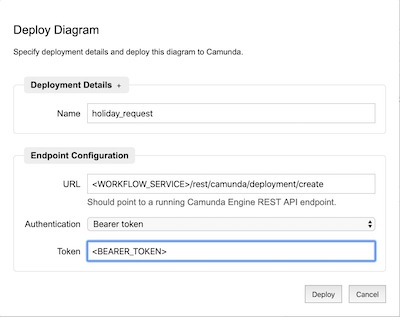
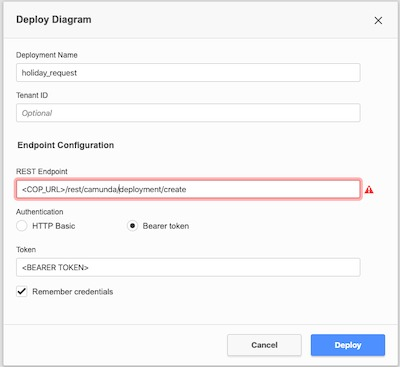
resolves #31

Changed region(s): [[0.0, 0.0, 1.0, 1.0], [0.84, 0.5962, 0.93, 0.6246]]

diff --git a/guides/workflow/simple-form-bpmn.md b/guides/workflow/simple-form-bpmn.md
@@ -3,7 +3,7 @@ category: Workflow
 expires: 2020-12-31
 order: 4
 ---
-# Building a form and BPMN, and deploying to COP
+# Building a form and BPMN, and deploying to COP and eForms
 
 ## Introduction
 
@@ -154,7 +154,13 @@ Now we want to present a form to the 'approver'. Do this by clicking on the 'For
 
 Now finish the BPMN by attaching an 'End Event'. Follow the same process. First give it an 'Id'. Give it a name to represent that the process is complete e.g. 'Request approved'. The BPMN is now complete. Your next task is to deploy it to COP.
 
-### How to deploy the BPMN to COP
+### How to deploy the BPMN to COP and eForms
+
+The Camunda workflow engine underpins both COP and eForms, but the COP engine is highly customised to suit Border Force requirements, whereas eForms is more general. The deployment process for both is the same, the only difference is the URL.
+
+The following instructions apply both to deployment to COP and eForms with two exceptions: only certain people are allowed to deploy to eForms, and a different URL will be provided when it comes to eForms.
+
+Only certain roles e.g. tech lead, have clearance to deploy to eForms. This encourages developers to fully test their BPMN before deploying it, rather than deploying it and testing it afterwards.
 
 Save the file in the appropriate repository. (Please consult with your developer/tech arch. If you are testing this locally you can save it in your local directory.) Then click on the arrow button at the end of the toolbar 'Deploy Current Diagram'. Give the diagram a name e.g. 'Holiday Request', then the url of the workflow engine that's running (See Fig. 10).
 
@@ -162,30 +168,73 @@ Save the file in the appropriate repository. (Please consult with your developer
 
 **Figure 10. Deploy to COP**
 
-<br/>
+REST endpoint for COP:
+```
+<COP_URL>/rest/camunda/deployment/create
+```
+REST endpoint for eForms:
+```
+<eForms_URL>/camunda/engine-rest/deployment/create
+```
 
-Once this is deployed to COP you should see this:
+**Consult your tech lead for the appropriate COP_URL or eForms_URL**
+
+Next you need a 'bearer token'. A 'bearer token' is a form of access token, that encodes information about the individual deploying the BPMN.
+The 'bearer token' only lasts for a limited amount of time so you need to generate one every time you deploy your BPMN to COP and eForms.
+
+You can download a tool called [postman](https://www.postman.com). Documentation on how to use postman can be found [here](https://learning.postman.com). This [link](https://learning.postman.com/docs/sending-requests/authorization/#oauth-20tells) shows you how to get a 'bearer token'. In the form 'Get New Access Token' you need to fill in 'Token Name','Callback URL', 'Auth URL', 'Access Token URL', and a 'Client ID'.
+
+* 'Token Name' - this can be anything, as it only lasts for a short period of time.
+
+* 'Callback URL' - this can be your local machine, so fill in 'http://localhost:8080'
+
+* 'Auth URL' - your DevOps will provide you with the 'Auth URL', you then need to input it into the 'Auth URL' box and add '/auth'.
+
+* 'Access Token URL' - will be available from your Tech Lead or DevOps engineer. Input it into the 'Access Token URL' box and add '/token'.
+
+* 'Client ID' - will either be 'eforms' or 'www'(for COP).
+
+![get new access token]({{ '/images/get-new-access-token.jpeg' | relative_url }})
+
+**Figure 11. Get New Access Token form**
+
+Once you have filled in all that information click 'Request Token'. You will then be redirected to 'Keycloak SSO'. Next you will be prompted to authenticate using your credentials.
+
+Once you have authenticated you will be presented with the 'Manage Access Tokens' box. Copy the access token value. Next, go to the BPMN modeller and paste that token into the 'Token' box.
+
+![bearer token]({{ '/images/bearer-token-input.jpeg' | relative_url }})
+
+**Figure 12. Bearer token input**
+
+Then you click the 'Deploy button'.
+
+Once the BPMN is deployed to eForms you should see this:
+
+![form successfully deployed to eForms]({{ '/images/successful-deploy-to-eforms.jpeg' | relative_url }})
+
+**Figure 13. Form successfully deployed to eForms**
+
+Once the BPMN is deployed to COP you should see this:
 
 
 ![holiday request form]({{ '/images/holiday-request-form-cop.jpeg' | relative_url }})
 
-**Figure 11. Holiday request form in COP**
+**Figure 14. Holiday request form in COP**
 
-<br/>
 
 Once the form has been submitted, the 'approver' will see an 'approval task':
 
 
 ![approver task]({{ '/images/approver-task.jpeg' | relative_url }})
 
-**Figure 12. Approval task**
+**Figure 15. Approval task**
 
 <br/>
 Once the 'approver' clicks on the 'Action' button they will be presented with the 'approval form':
 
 ![approver task cop]({{ '/images/approval-form-cop.jpeg' | relative_url }})
 
-**Figure 13. Approval form**
+**Figure 16. Approval form**
 
 <br/>
 Once the 'approver' has completed the 'approval form' the task is submitted and the workflow is finished. The 'approval task' disappears from the 'approvers' work queue.
